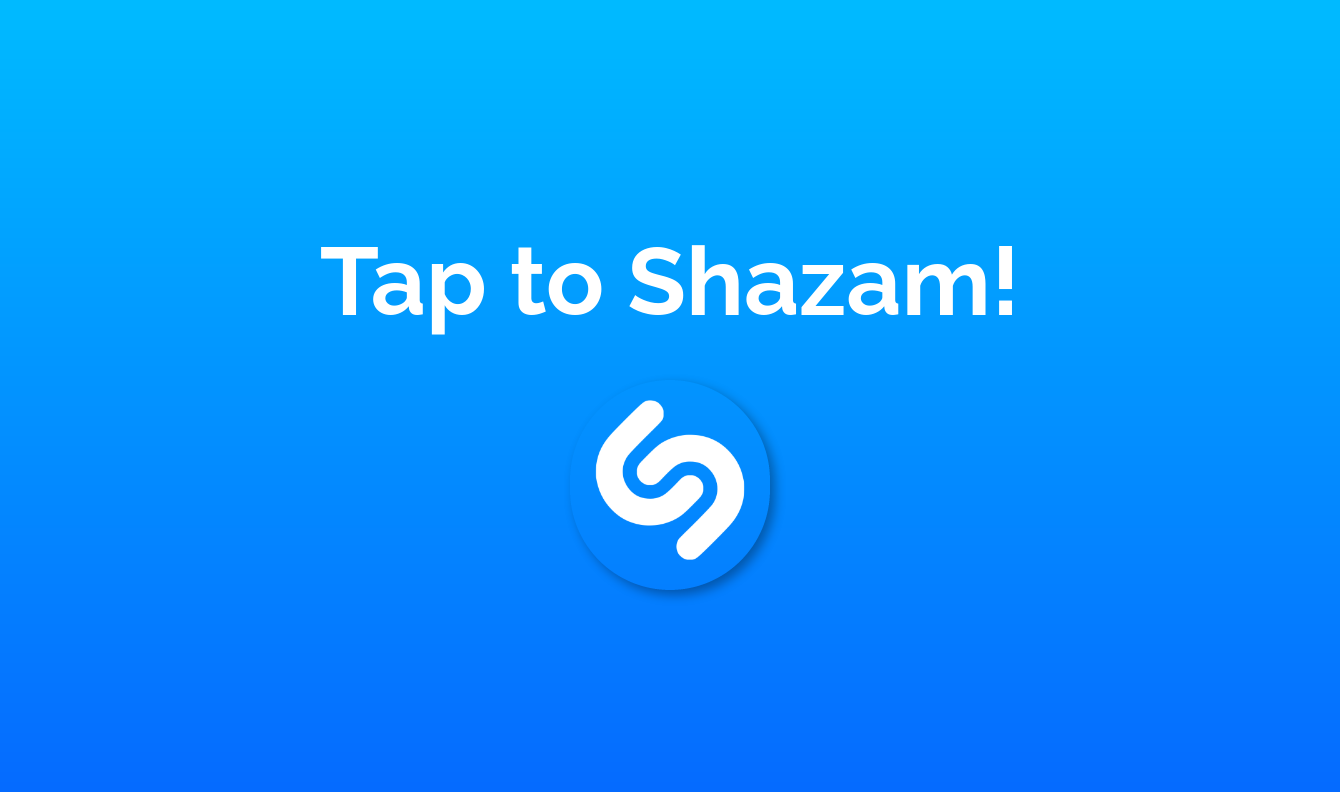
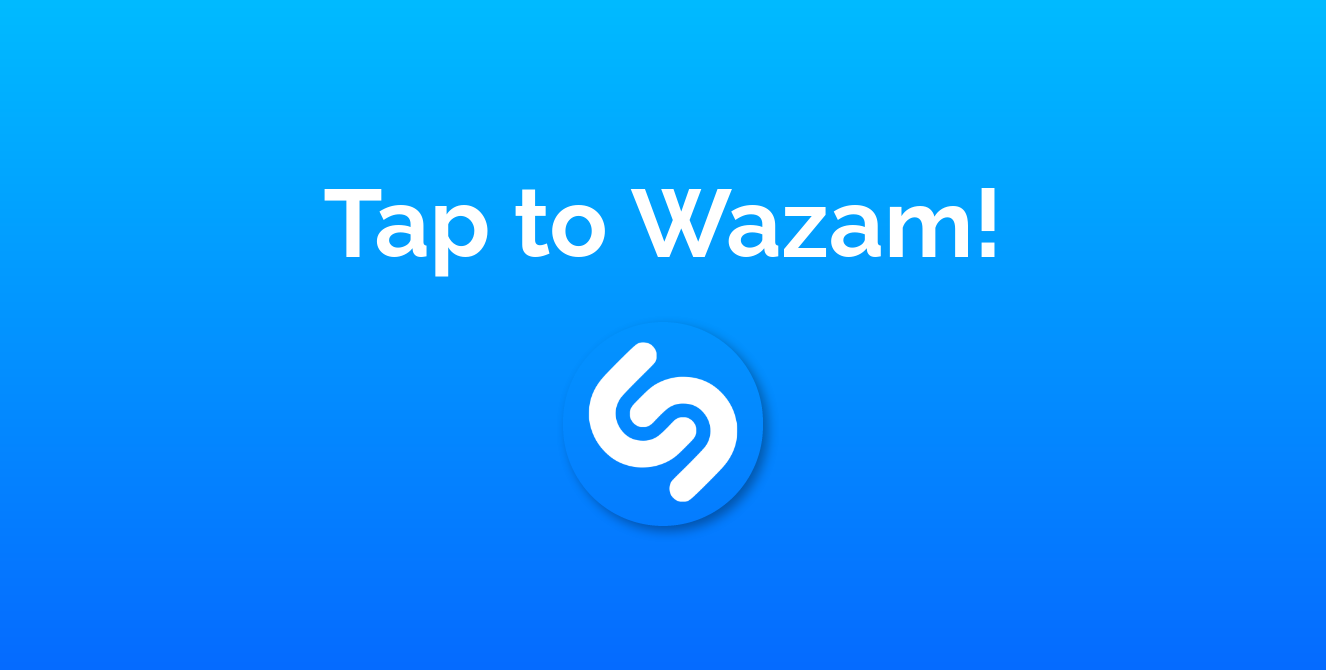
changed name to Wazam

Changed region(s): [[0.2164, 0.2687, 0.773, 0.4179], [0.4329, 0.5075, 0.5875, 0.806]]

diff --git a/one/static/one/js/script.js b/one/static/one/js/script.js
@@ -98,7 +98,7 @@ function gotSong(response) {
 
     if (response.matches.length) {
         console.log("match found");
-        text.innerHTML = "<h1>Tap to Shazam!</h1>";
+        text.innerHTML = "<h1>Tap to Wazam!</h1>";
         console.log("Track title : " + response.track.title)
         console.log("Track artist : " + response.track.subtitle)
         console.log("Track coverart : " + response.track.images.coverart)
@@ -122,7 +122,7 @@ function gotSong(response) {
 function JSmagic() {
 
     if (recording) {
-        text.innerHTML = "<h1>Tap to Shazam!</h1>";
+        text.innerHTML = "<h1>Tap to Wazam!</h1>";
         button.classList.remove('recording');
         console.log("removing")
         recording = false;

diff --git a/one/templates/index.html b/one/templates/index.html
@@ -7,13 +7,13 @@
     <meta charset="UTF-8">
     <meta name="viewport" content="width=device-width, initial-scale=1.0">
     <link rel="stylesheet" href="{% static 'one/css/style.css' %}" type="text/css">
-    <title>Wazammm!</title>
+    <title>Wazam!</title>
 </head>
 
 <body>
 
     <div class="text">
-        <h1>Tap to Shazam!</h1>
+        <h1>Tap to Wazam!</h1>
     </div>
     <div class="wrapper">
         <div class="recordButton">

diff --git a/README.md b/README.md
@@ -26,7 +26,7 @@ additionally, `ffmpeg` and `ffprobe` should be installed in your system for proc
 ## Screenshots
 
 ![](https://raw.githubusercontent.com/Roshan-R/BillyBatson/main/imgs/wazam.png)
-![](https://raw.githubusercontent.com/Roshan-R/BillyBatson/main/imgs/rresult.png)
+![](https://raw.githubusercontent.com/Roshan-R/BillyBatson/main/imgs/result.png)
 
 ## Todo
 - [x] Check whether mic permissions are given
